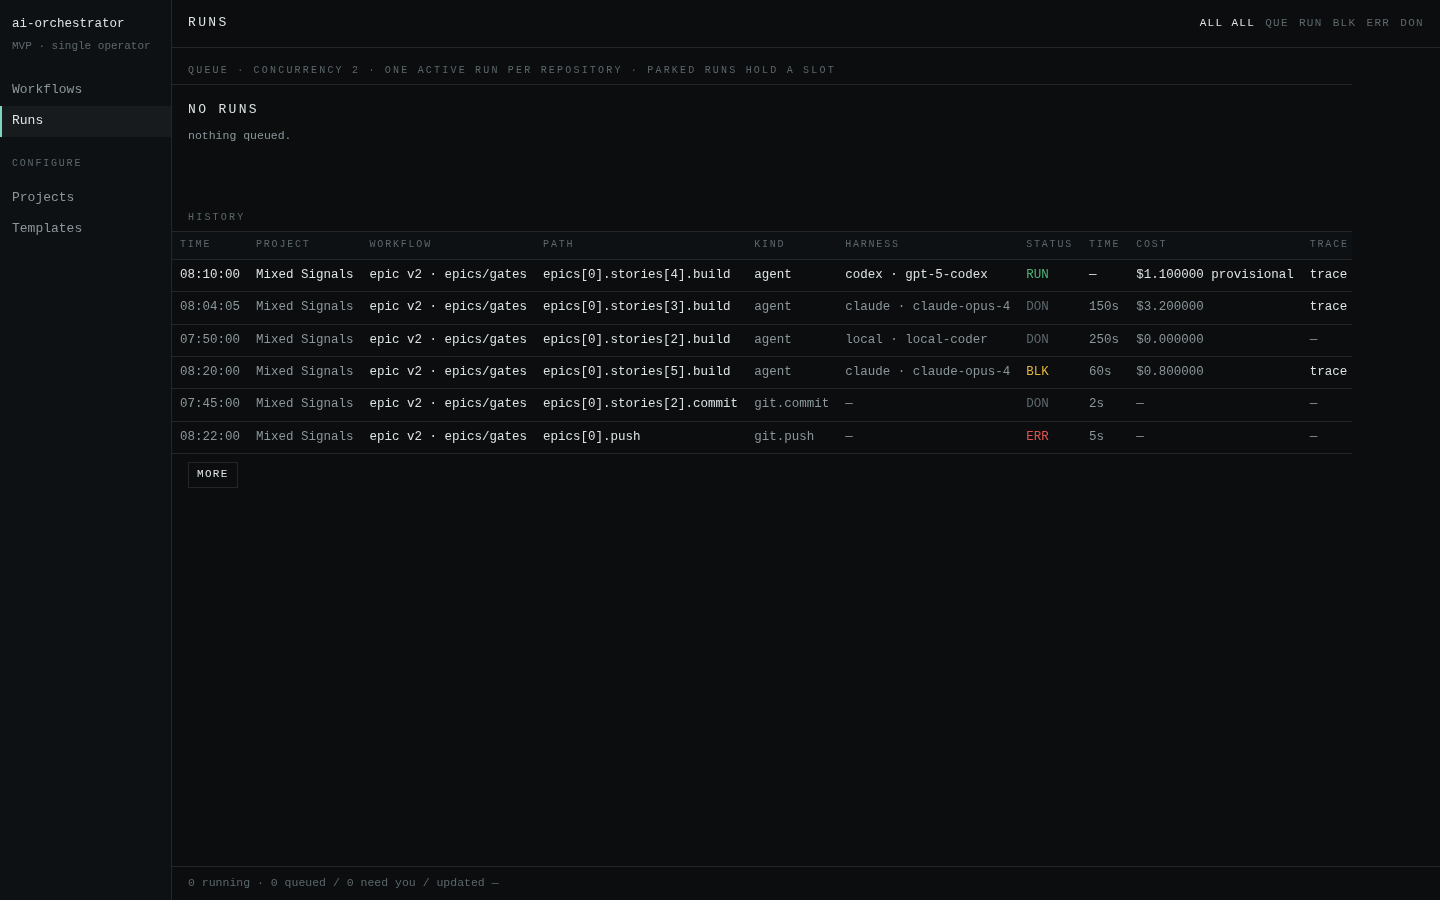
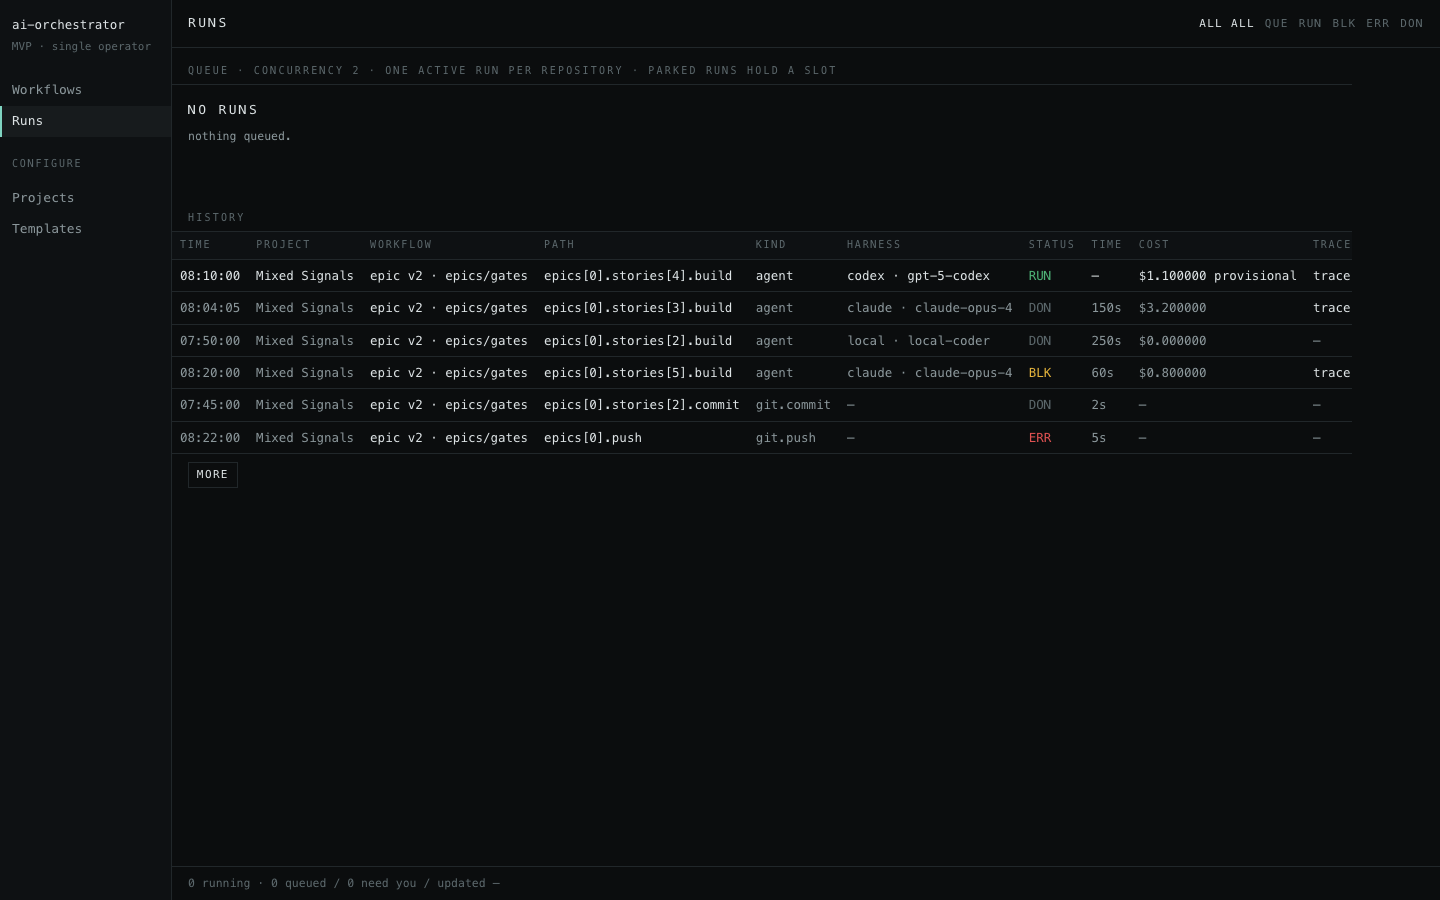
fix: epic check in initiative was incoherent

diff --git a/backend-api/tests/unit/application/preflight/test_spec_md_initiative_folder.py b/backend-api/tests/unit/application/preflight/test_spec_md_initiative_folder.py
@@ -1,0 +1,133 @@
+"""SPEC.md (FR-8 line 7) for an initiative Run: `epics.yaml` declares each `spec_folder`
+relative to the Initiative folder (PRD §3 "Initiative"), and `initiative@1` composes
+`{{initiative_folder}}/{{epic.spec_folder}}` before anything reads it — so line 7 must
+read `SPEC.md` under the composed path, not under the bare entry at the repository root.
+
+Defect found 2026-09-16: pre-flight read `{spec_folder}/SPEC.md` verbatim and answered
+`missing` for every epic of the v2-operability initiative while the files existed.
+"""
+
+from __future__ import annotations
+
+from datetime import UTC, datetime
+from pathlib import Path
+
+from orchestrator.application.preflight import lists
+from orchestrator.application.preflight.checks import Context
+from orchestrator.application.preflight.model import CHECK_SPEC_MD, Line, PreflightRequest
+from orchestrator.application.templates.plan_model import Plan
+from orchestrator.domain.entities.repository import CloneCheck, Repository
+from orchestrator.domain.ids import new_id
+from tests.unit.application.templates import plan_fixtures as fixtures
+from tests.unit.fakes.git import FakeGit
+from tests.unit.fakes.harnesses import FakeHarnessRepository
+from tests.unit.fakes.runs import FakeRunRepository
+
+NOW = datetime(2026, 1, 1, tzinfo=UTC)
+
+EPICS_TEXT = """
+- id: e1
+  title: The first epic
+  branch: feat/e1
+  spec_folder: epic-1
+- id: e2
+  title: The second epic
+  branch: feat/e2
+  spec_folder: epic-2
+"""
+
+
+def repo() -> Repository:
+    return Repository(
+        id=new_id(),
+        project_id=new_id(),
+        slug="my-repo",
+        url="https://example.test/org/my-repo.git",
+        default_branch="main",
+        install_command="uv sync",
+        quality_gate_command="make check",
+        unit_test_command="pytest -q",
+        test_globs=("tests/**",),
+        package_manager="uv",
+        clone_check=CloneCheck(status="ok", at=NOW, output="", bmad_version="6.11.0"),
+        created_at=NOW,
+        updated_at=NOW,
+    )
+
+
+def ctx(**overrides: object) -> Context:
+    fields: dict[str, object] = {
+        "git": FakeGit(),
+        "base_dir": Path("/work/my-project/my-repo/base"),
+        "bmad_version": "6.11.0",
+        "max_active_runs": 2,
+        "repository": repo(),
+        "runs": FakeRunRepository(),
+        "harnesses": FakeHarnessRepository(),
+        "req": PreflightRequest(),
+        "tree": None,
+        "plan": None,
+        "plan_error": None,
+    }
+    fields.update(overrides)
+    return Context(**fields)  # type: ignore[arg-type]
+
+
+def initiative_ctx(*, git: FakeGit, initiative_folder: str | None) -> Context:
+    inputs = {"initiative_folder": initiative_folder} if initiative_folder is not None else {}
+    return ctx(
+        tree=fixtures.tree("initiative"),
+        plan=Plan(plan_ref="sha", plan_refs={"docs/initiative/epics.yaml": "sha1"}, rows=()),
+        git=git,
+        req=PreflightRequest(inputs=inputs),
+    )
+
+
+def test_spec_folders_are_composed_under_the_initiative_folder() -> None:
+    git = FakeGit(files={("sha1", "docs/initiative/epics.yaml"): EPICS_TEXT})
+
+    folders = lists.spec_folders(initiative_ctx(git=git, initiative_folder="docs/initiative"))
+
+    assert folders == ("docs/initiative/epic-1", "docs/initiative/epic-2")
+
+
+def test_spec_md_found_under_the_composed_path() -> None:
+    git = FakeGit(
+        files={
+            ("sha1", "docs/initiative/epics.yaml"): EPICS_TEXT,
+            ("sha", "docs/initiative/epic-1/SPEC.md"): "# SPEC e1\n",
+            ("sha", "docs/initiative/epic-2/SPEC.md"): "# SPEC e2\n",
+        }
+    )
+
+    lines = lists.spec_md_lines(initiative_ctx(git=git, initiative_folder="docs/initiative"))
+
+    assert lines == [
+        Line(CHECK_SPEC_MD, "ok", "docs/initiative/epic-1: found"),
+        Line(CHECK_SPEC_MD, "ok", "docs/initiative/epic-2: found"),
+    ]
+
+
+def test_spec_md_missing_names_the_composed_path() -> None:
+    git = FakeGit(
+        files={
+            ("sha1", "docs/initiative/epics.yaml"): EPICS_TEXT,
+            ("sha", "docs/initiative/epic-1/SPEC.md"): "# SPEC e1\n",
+        }
+    )
+
+    lines = lists.spec_md_lines(initiative_ctx(git=git, initiative_folder="docs/initiative"))
+
+    assert lines == [
+        Line(CHECK_SPEC_MD, "ok", "docs/initiative/epic-1: found"),
+        Line(CHECK_SPEC_MD, "fail", "docs/initiative/epic-2: missing"),
+    ]
+
+
+def test_a_request_without_the_folder_input_keeps_the_bare_entries() -> None:
+    """The incomplete-request path: no `initiative_folder` typed yet, nothing to compose."""
+    git = FakeGit(files={("sha1", "docs/initiative/epics.yaml"): EPICS_TEXT})
+
+    folders = lists.spec_folders(initiative_ctx(git=git, initiative_folder=None))
+
+    assert folders == ("epic-1", "epic-2")

diff --git a/backend-api/src/orchestrator/application/preflight/lists.py b/backend-api/src/orchestrator/application/preflight/lists.py
@@ -27,6 +27,8 @@ EPICS_FILENAME = "epics.yaml"
 STORIES_FILENAME = "stories.yaml"
 SPEC_FILENAME = "SPEC.md"
 STATUS_KEY = "status"
+#: The Run input `initiative@1` binds its epic list under (same key as `walk_frame.py`).
+INITIATIVE_FOLDER_KEY = "initiative_folder"
 FRONTMATTER_FENCE = "---"
 STORY_SUFFIX = ".md"
 PATH_SEPARATOR = "/"
@@ -103,12 +105,20 @@ def stories_yaml_lines(ctx: Context) -> tuple[list[Line], dict[str, tuple[str, .
 
 
 def spec_folders(ctx: Context) -> tuple[str, ...]:
-    """Every spec folder the plan touches: each epic's, or the request's own single one."""
+    """Every spec folder the plan touches: each epic's, or the request's own single one.
+
+    An epic's `spec_folder` is relative to the Initiative folder (PRD §3), the same
+    composition `initiative@1` declares — so each entry is prefixed with the request's
+    `initiative_folder` when one is typed; without it the bare entries stand.
+    """
     if ctx.is_initiative:
-        return (
-            tuple(_joined(epics_entries(ctx), "spec_folder").split(", "))
-            if epics_entries(ctx)
-            else ()
+        entries = epics_entries(ctx)
+        if not entries:
+            return ()
+        prefix = ctx.req.inputs.get(INITIATIVE_FOLDER_KEY)
+        head = f"{prefix}{PATH_SEPARATOR}" if isinstance(prefix, str) and prefix else ""
+        return tuple(
+            f"{head}{folder}" for folder in _joined(entries, "spec_folder").split(", ") if folder
         )
     folder = ctx.req.inputs.get("spec_folder")
     return (folder,) if isinstance(folder, str) and folder else ()

diff --git a/backend-api/tests/unit/application/test_create_run_use_case.py b/backend-api/tests/unit/application/test_create_run_use_case.py
@@ -152,13 +152,18 @@ def test_repo_init_persists_eight_rows_pins_one_version_and_enqueues_once() -> N
 def initiative_git_with_a_passing_preflight() -> FakeGit:
     """`fixtures.initiative_git()`, plus what `create_run` also re-runs pre-flight over:
     each epic's `SPEC.md` (line 7) and the manifest `method_version_line` (line 9) reads —
-    neither of which the planner itself needs, so the planner's own fixture omits them."""
+    neither of which the planner itself needs, so the planner's own fixture omits them.
+
+    The `SPEC.md` paths sit under the Initiative folder: `epics.yaml` declares each
+    `spec_folder` relative to it (PRD §3 "Initiative"), and line 7 reads the composed
+    path. They were bare (`epic-1/SPEC.md`) while pre-flight read them verbatim —
+    revised with that defect's fix (Operator ruling, 2026-09-16; hard rule 1 case (c))."""
     git = fixtures.initiative_git()
     manifest = f"installation:\n  version: {fixtures.BMAD_VERSION}\n"
     git.files = {
         **(git.files or {}),
-        (fixtures.BASE_SHA, "epic-1/SPEC.md"): "# spec",
-        (fixtures.BASE_SHA, "epic-2/SPEC.md"): "# spec",
+        (fixtures.BASE_SHA, f"{fixtures.INITIATIVE_FOLDER}/epic-1/SPEC.md"): "# spec",
+        (fixtures.BASE_SHA, f"{fixtures.INITIATIVE_FOLDER}/epic-2/SPEC.md"): "# spec",
         (fixtures.BASE_SHA, "_bmad/_config/manifest.yaml"): manifest,
     }
     return git
